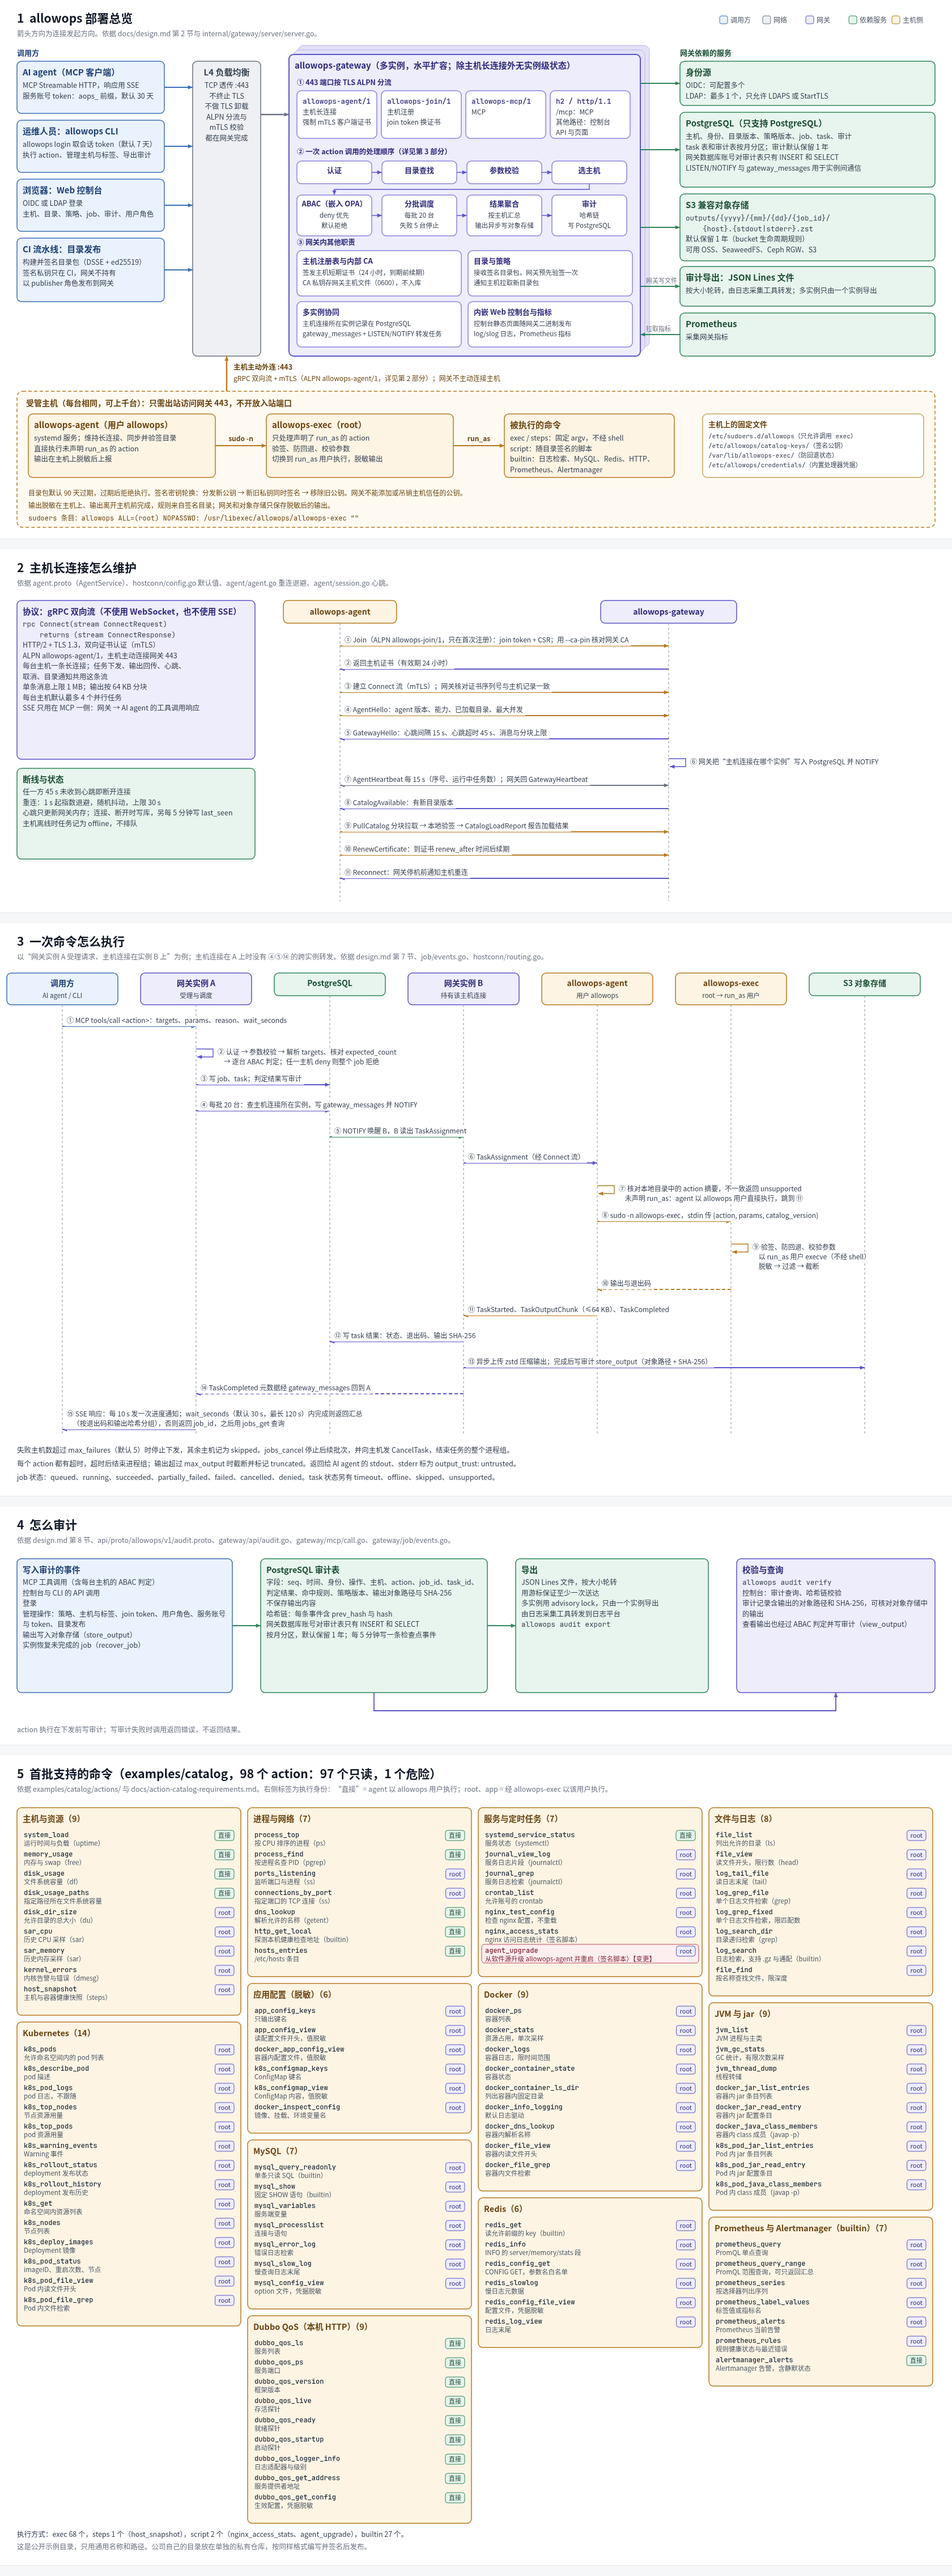
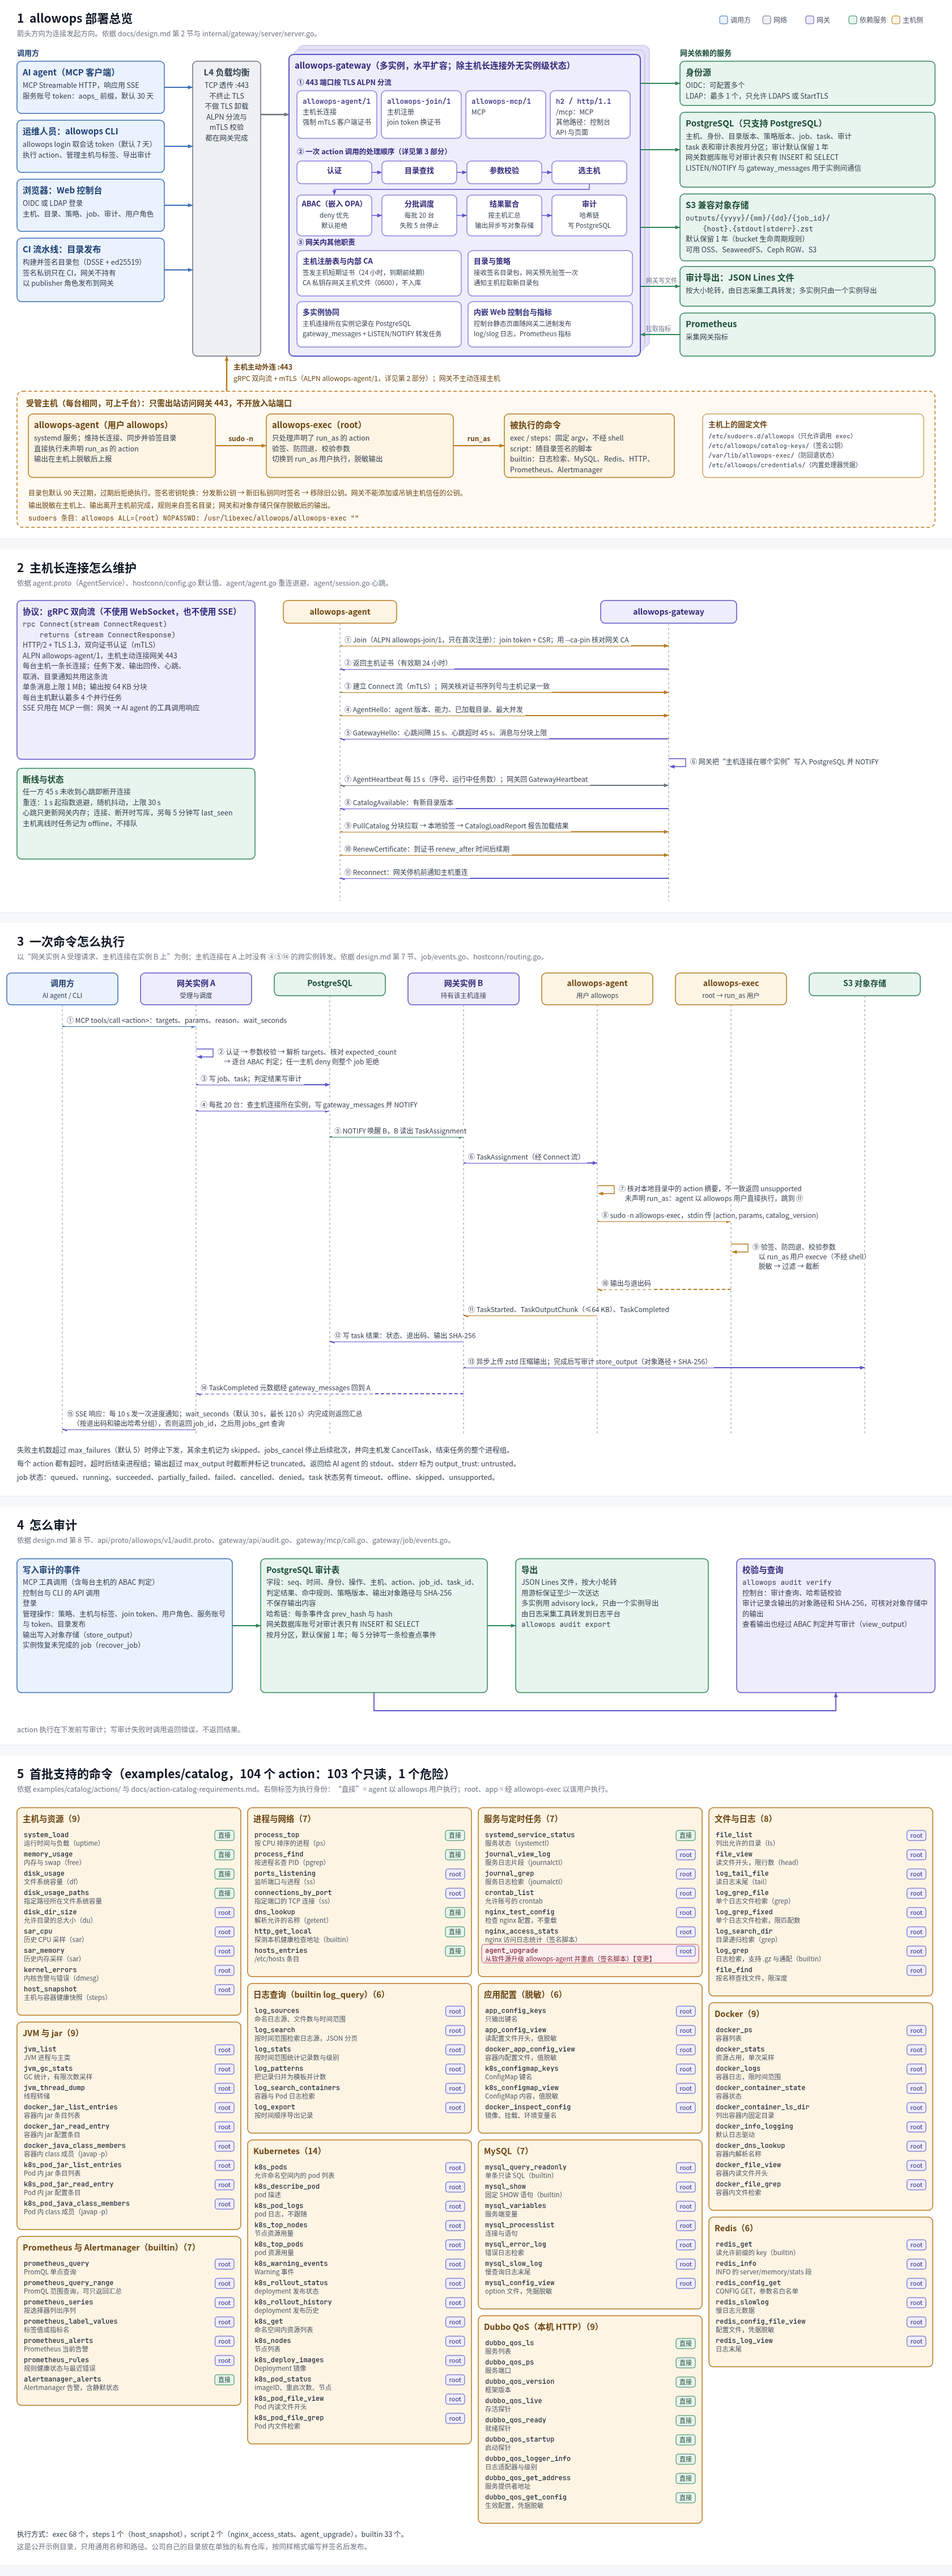
docs: list log_query in proto and diagram
agent.proto's builtin list and the architecture diagram did not include
log_query. The diagram now shows log_grep under files and logs, a new
log_query group with 6 actions, and 104 actions in total (builtin 33).

Changed region(s): [[0.0, 0.7759, 0.9905, 0.9932], [0.4333, 0.6828, 0.4643, 0.7138]]

diff --git a/docs/architecture-diagram.html b/docs/architecture-diagram.html
@@ -308,7 +308,10 @@ const groups = [
   ['服务与定时任务', [
     ['systemd_service_status', '服务状态（systemctl）', '直接'], ['journal_view_log', '服务日志片段（journalctl）', 'root'], ['journal_grep', '服务日志检索（journalctl）', 'root'], ['crontab_list', '允许账号的 crontab', 'root'], ['nginx_test_config', '检查 nginx 配置，不重载', 'root'], ['nginx_access_stats', 'nginx 访问日志统计（签名脚本）', 'root'], ['agent_upgrade', '从软件源升级 allowops-agent 并重启（签名脚本）', 'root', 1]]],
   ['文件与日志', [
-    ['file_list', '列出允许的目录（ls）', 'root'], ['file_view', '读文件开头，限行数（head）', 'root'], ['log_tail_file', '读日志末尾（tail）', 'root'], ['log_grep_file', '单个日志文件检索（grep）', 'root'], ['log_grep_fixed', '单个日志文件检索，限匹配数', 'root'], ['log_search_dir', '目录递归检索（grep）', 'root'], ['log_search', '日志检索，支持 .gz 与通配（builtin）', 'root'], ['file_find', '按名称查找文件，限深度', 'root']]],
+    ['file_list', '列出允许的目录（ls）', 'root'], ['file_view', '读文件开头，限行数（head）', 'root'], ['log_tail_file', '读日志末尾（tail）', 'root'], ['log_grep_file', '单个日志文件检索（grep）', 'root'], ['log_grep_fixed', '单个日志文件检索，限匹配数', 'root'], ['log_search_dir', '目录递归检索（grep）', 'root'], ['log_grep', '日志检索，支持 .gz 与通配（builtin）', 'root'], ['file_find', '按名称查找文件，限深度', 'root']]],
+  ['日志查询（builtin log_query）', [
+    ['log_sources', '命名日志源、文件数与时间范围', 'root'], ['log_search', '按时间范围检索日志源，JSON 分页', 'root'], ['log_stats', '按时间范围统计记录数与级别', 'root'], ['log_patterns', '把记录归并为模板并计数', 'root'], ['log_search_containers', '容器与 Pod 日志检索', 'root'], ['log_export', '按时间顺序导出记录', 'root']
+  ]],
   ['应用配置（脱敏）', [
     ['app_config_keys', '只输出键名', 'root'], ['app_config_view', '读配置文件开头，值脱敏', 'root'], ['docker_app_config_view', '容器内配置文件，值脱敏', 'root'], ['k8s_configmap_keys', 'ConfigMap 键名', 'root'], ['k8s_configmap_view', 'ConfigMap 内容，值脱敏', 'root'], ['docker_inspect_config', '镜像、挂载、环境变量名', 'root']]],
   ['Docker', [
@@ -337,7 +340,7 @@ groups.forEach(([title, items]) => {
 });
 const footY = Math.max(...colY) + 12;
 canvas('actions', footY + 50);
-heading('5', '首批支持的命令（examples/catalog，98 个 action：97 个只读，1 个危险）', '依据 examples/catalog/actions/ 与 docs/action-catalog-requirements.md。右侧标签为执行身份：“直接”= agent 以 allowops 用户执行；root、app = 经 allowops-exec 以该用户执行。');
+heading('5', '首批支持的命令（examples/catalog，104 个 action：103 个只读，1 个危险）', '依据 examples/catalog/actions/ 与 docs/action-catalog-requirements.md。右侧标签为执行身份：“直接”= agent 以 allowops 用户执行；root、app = 经 allowops-exec 以该用户执行。');
 groups.forEach(([title, items], i) => {
   const [x, y, gh] = place[i];
   box(x, y, gw4, gh, C.host, `${title}（${items.length}）`, [], { ts: 14.5 });
@@ -352,7 +355,7 @@ groups.forEach(([title, items], i) => {
     label(who, x + gw4 - tw / 2 - 12, yy + 1, { fs: 11, color: tc.title, align: 'center' });
   });
 });
-label('执行方式：exec 68 个，steps 1 个（host_snapshot），script 2 个（nginx_access_stats、agent_upgrade），builtin 27 个。', 30, footY, { fs: 12.5 });
+label('执行方式：exec 68 个，steps 1 个（host_snapshot），script 2 个（nginx_access_stats、agent_upgrade），builtin 33 个。', 30, footY, { fs: 12.5 });
 label('这是公开示例目录，只用通用名称和路径。公司自己的目录放在单独的私有仓库，按同样格式编写并签名后发布。', 30, footY + 22, { fs: 12.5, color: '#6b7280' });
 </script>
 </body>

diff --git a/web/src/gen/allowops/v1/agent_pb.ts b/web/src/gen/allowops/v1/agent_pb.ts
@@ -412,7 +412,7 @@ export type AgentCapabilities = Message<"allowops.v1.AgentCapabilities"> & {
   executionModes: string[];
 
   /**
-   * log_search,mysql_query,redis_command,http_get,prometheus_query,alertmanager_alerts.
+   * log_search,log_query,mysql_query,redis_command,http_get,prometheus_query,alertmanager_alerts.
    *
    * @generated from field: repeated string builtins = 4;
    */
@@ -457,7 +457,7 @@ export type AgentCapabilitiesJson = {
   executionModes?: string[];
 
   /**
-   * log_search,mysql_query,redis_command,http_get,prometheus_query,alertmanager_alerts.
+   * log_search,log_query,mysql_query,redis_command,http_get,prometheus_query,alertmanager_alerts.
    *
    * @generated from field: repeated string builtins = 4;
    */

diff --git a/gen/allowops/v1/agent.pb.go b/gen/allowops/v1/agent.pb.go
@@ -598,7 +598,7 @@ type AgentCapabilities struct {
 	ParameterTypes []string `protobuf:"bytes,2,rep,name=parameter_types,json=parameterTypes,proto3" json:"parameter_types,omitempty"`
 	// exec,steps,script,builtin.
 	ExecutionModes []string `protobuf:"bytes,3,rep,name=execution_modes,json=executionModes,proto3" json:"execution_modes,omitempty"`
-	// log_search,mysql_query,redis_command,http_get,prometheus_query,alertmanager_alerts.
+	// log_search,log_query,mysql_query,redis_command,http_get,prometheus_query,alertmanager_alerts.
 	Builtins []string `protobuf:"bytes,4,rep,name=builtins,proto3" json:"builtins,omitempty"`
 	// match,exclude,tail,head,count.
 	OutputFilters []string `protobuf:"bytes,5,rep,name=output_filters,json=outputFilters,proto3" json:"output_filters,omitempty"`
